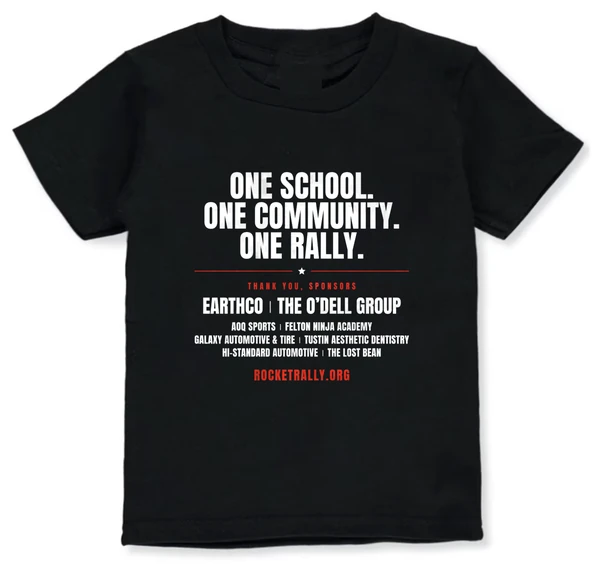
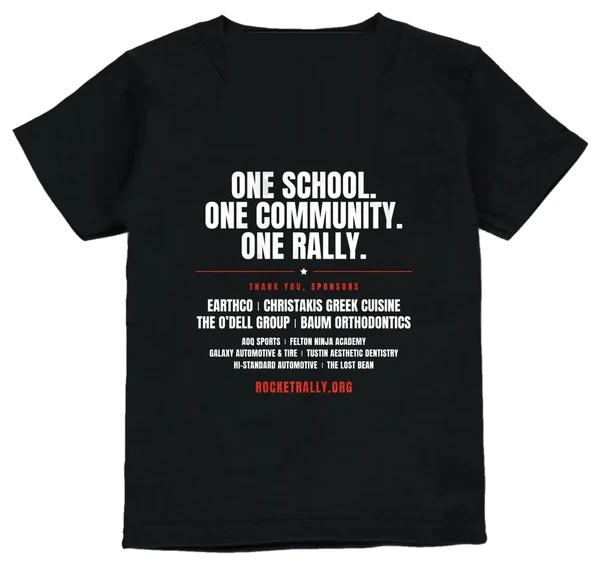
Update the shirt art to the current sponsor list, flattened to white
The sponsor list has moved on twice since the printed art was first
approved. The art also arrived as cut-outs, transparent where the
shirt isn't; flattened onto white here, so the shot can't turn into
a black rectangle on a viewer that fills transparency its own way.
Both shots are framed at one scale, so front and back read as the
same shirt. Intrinsic size is 600x565, two pixels shorter than the
first pass.

Claude-Session: https://claude.ai/code/session_01AHeUZu3zeFFaVatmhwBbCk

diff --git a/site/shirt.html b/site/shirt.html
@@ -23,9 +23,9 @@
 
   <form id="shirt-form" class="wrap-narrow" novalidate>
     <div class="shirt-shots">
-      <img src="/img/rally-shirt.webp" width="600" height="567" fetchpriority="high" decoding="async"
+      <img src="/img/rally-shirt.webp" width="600" height="565" fetchpriority="high" decoding="async"
         alt="The front of the Rally shirt: a black tee reading Rocket Rally for Red Hill, with a small red and white rocket.">
-      <img src="/img/rally-shirt-back.webp" width="600" height="567" decoding="async"
+      <img src="/img/rally-shirt-back.webp" width="600" height="565" decoding="async"
         alt="The back of the Rally shirt: One school. One community. One Rally., a thank-you to the Rally’s sponsors with their names, and rocketrally.org.">
     </div>
 
